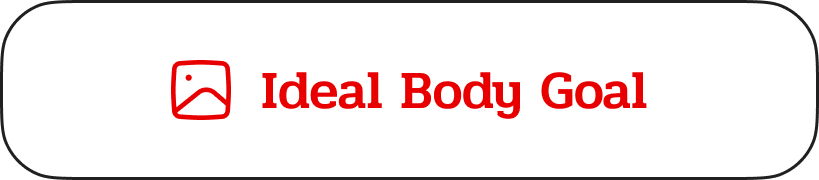
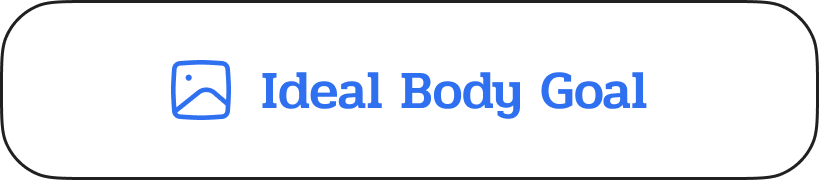
add

Changed region(s): [[0.1832, 0.3333, 0.7937, 0.6667]]

diff --git a/lib/workouts_pages/mindful_page.dart b/lib/workouts_pages/mindful_page.dart
@@ -219,7 +219,7 @@ class _MindfulPageState extends State<MindfulPage> {
                             fontSize: 16.h,
                             fontWeight: FontWeight.w600,
                             fontFamily: family,
-                            color: const Color(0xffE80000),
+                            color: const Color(0xff2E70F0),
                           ),
                         ),
                         SizedBox(width: 10.w),
@@ -228,6 +228,7 @@ class _MindfulPageState extends State<MindfulPage> {
                               ? 'assets/images/stop_icon.png'
                               : 'assets/images/play_icon.png',
                           height: 24.h,
+                          color: const Color(0xff2E70F0),
                         )
                       ],
                     ),
@@ -267,7 +268,7 @@ class MinWidget extends StatelessWidget {
                 padding: const EdgeInsets.symmetric(vertical: 10),
                 decoration: BoxDecoration(
                   borderRadius: BorderRadius.circular(20),
-                  color: isSeleted ? const Color(0xffE80000) : Colors.black,
+                  color: isSeleted ? const Color(0xff2E70F0) : Colors.black,
                   border: isSeleted
                       ? null
                       : Border.all(
@@ -281,7 +282,7 @@ class MinWidget extends StatelessWidget {
                     fontSize: 16.h,
                     fontWeight: FontWeight.w600,
                     fontFamily: family,
-                    color: isSeleted ? Colors.black : const Color(0xffE80000),
+                    color: isSeleted ? Colors.black : const Color(0xff2E70F0),
                   ),
                 ),
               ),
@@ -294,7 +295,7 @@ class MinWidget extends StatelessWidget {
               padding: const EdgeInsets.symmetric(vertical: 10),
               decoration: BoxDecoration(
                 borderRadius: BorderRadius.circular(20),
-                color: isSeleted ? const Color(0xffE80000) : Colors.black,
+                color: isSeleted ? const Color(0xff2E70F0) : Colors.black,
                 border: isSeleted
                     ? null
                     : Border.all(
@@ -308,7 +309,7 @@ class MinWidget extends StatelessWidget {
                   fontSize: 16.h,
                   fontWeight: FontWeight.w600,
                   fontFamily: family,
-                  color: isSeleted ? Colors.black : const Color(0xffE80000),
+                  color: isSeleted ? Colors.black : const Color(0xff2E70F0),
                 ),
               ),
             ),
@@ -429,7 +430,7 @@ class CenterWidget extends StatelessWidget {
             ),
           ],
         ),
-        progressColor: const Color(0xffE80000),
+        progressColor: const Color(0xff2E70F0),
       ),
     );
   }

diff --git a/lib/workouts_pages/eco_detaile.dart b/lib/workouts_pages/eco_detaile.dart
@@ -140,14 +140,14 @@ class _EcoDetaileState extends State<EcoDetaile> {
                           children: [
                             const Icon(
                               Icons.edit,
-                              color: Color(0xffE80000),
+                              color: Color(0xff2E70F0),
                             ),
                             Text(
                               'Change Task',
                               style: TextStyle(
                                 fontSize: 16.h,
                                 fontWeight: FontWeight.w500,
-                                color: const Color(0xffE80000),
+                                color: const Color(0xff2E70F0),
                               ),
                             ),
                           ],
@@ -220,14 +220,14 @@ class _EcoDetaileState extends State<EcoDetaile> {
                           children: [
                             const Icon(
                               Icons.check_circle_outline,
-                              color: Color(0xffE80000),
+                              color: Color(0xff2E70F0),
                             ),
                             Text(
                               'Mark as Done',
                               style: TextStyle(
                                 fontSize: 16.h,
                                 fontWeight: FontWeight.w500,
-                                color: const Color(0xffE80000),
+                                color: const Color(0xff2E70F0),
                               ),
                             ),
                           ],

diff --git a/lib/pagesss/setting_screen.dart b/lib/pagesss/setting_screen.dart
@@ -111,7 +111,11 @@ class SetWidget extends StatelessWidget {
           ),
           child: Row(
             children: [
-              Image.asset(icon, height: 23.h),
+              Image.asset(
+                icon,
+                height: 23.h,
+                color: const Color(0xff2E70F0),
+              ),
               SizedBox(width: 11.w),
               Text(
                 title,
@@ -119,13 +123,13 @@ class SetWidget extends StatelessWidget {
                   fontSize: 16.h,
                   fontWeight: FontWeight.w600,
                   fontFamily: family,
-                  color: const Color(0xffE80000),
+                  color: const Color(0xff2E70F0),
                 ),
               ),
               const Spacer(),
               const Icon(
                 Icons.arrow_forward_ios_rounded,
-                color: Color(0xffE80000),
+                color: Color(0xff2E70F0),
               ),
             ],
           ),

diff --git a/lib/pagesss/app_info_page.dart b/lib/pagesss/app_info_page.dart
@@ -126,13 +126,13 @@ class _AppInfoPageState extends State<AppInfoPage> {
                         fontSize: 18.h,
                         fontWeight: FontWeight.w600,
                         fontFamily: family,
-                        color: const Color(0xffE80000),
+                        color: const Color(0xff2E70F0),
                       ),
                     ),
                     SizedBox(width: 5.w),
                     const Icon(
                       Icons.arrow_forward_ios_rounded,
-                      color: Color(0xffE80000),
+                      color: Color(0xff2E70F0),
                     )
                   ],
                 ),

diff --git a/lib/pagesss/buy_screen.dart b/lib/pagesss/buy_screen.dart
@@ -50,6 +50,14 @@ class BuyScreen extends StatelessWidget {
           mainAxisAlignment: MainAxisAlignment.end,
           children: [
             const SizedBox(width: double.infinity),
+            Expanded(
+              child: Padding(
+                padding: const EdgeInsets.symmetric(horizontal: 56),
+                child: Image.asset(
+                  'assets/images/prem_image.png',
+                ),
+              ),
+            ),
             Text(
               'Get Premium',
               style: TextStyle(

diff --git a/lib/pagesss/main_screen.dart b/lib/pagesss/main_screen.dart
@@ -161,7 +161,7 @@ class _MainScreenState extends State<MainScreen> {
                       calendarStyle: const CalendarStyle(
                         cellAlignment: Alignment.center,
                         todayDecoration: BoxDecoration(
-                          color: Color(0xffFF0000),
+                          color: Color(0xff2E70F0),
                           shape: BoxShape.circle,
                         ),
                         defaultDecoration: BoxDecoration(
